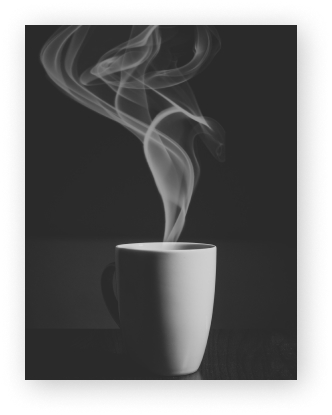
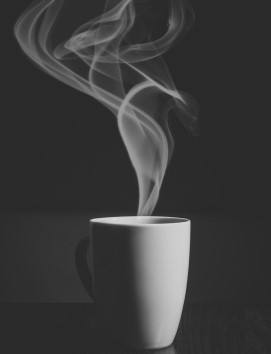
about-coffee-item-page layaut change

diff --git a/src/components/about/about-coffee-item-page.js b/src/components/about/about-coffee-item-page.js
@@ -1,48 +1,28 @@
-import {Container, Row, Col} from 'react-bootstrap';
-import './about.css'
-import imgAbout from './coffee.jpg'
+import './about-coffee.css'
 import LineBeans from '../line-beans/line-beans';
 
-// this section layout with bootstrap Grid system for just for my studying
-//it will be better using flex or persents
-
 const AboutCoffeeItemPage = ({data}) => {
-    
-    const {country,description, price} = data
-    
-   
-return (
-    <section className="about">
-        <Container >
-            <Row>
-                <Col xl={{span:5, offset:1}} lg={{span:5, offset:1}} md={{span:6, offset:0}} sm={{span:4, offset:0}} xs={{span:8, offset:2}}>
-                  <div className="about_img coffee">
-                      <img src={imgAbout} alt="coffee-фото"  />
-                  </div>
-                     
-                   
-                </Col>
-                <Col xl={{span:5, offset: 0}} lg={{span:5, offset:1}} md={{span:6, offset:0}}  sm={{span:7, offset:1}} xs={{span:10, offset:1}}>
-                    <div className="about_text-wrap coffee">
-                         <h1>About it</h1>
-                        <LineBeans />
-                       
-                        <div className="about_text coffee">
-                            <div><b>Country: </b>{country}</div>
-                            <p></p>
-                            <b>Description: </b> <span>{description}</span>
-                            <p></p>
-                            <div><b>Price: </b><b className="about_price">{price}$</b></div>
-                        </div>
-                       
+    const {country,description, price, img} = data
+    return (
+        <section className="about-coffee">
+            <div className="container" >
+                <div className="about-coffee_img">
+                    <img src={img} alt="coffee-фото"  />
+                </div>
+                <div className="about-coffee_text-wrap">
+                    <h1>About it</h1>
+                    <LineBeans />
+                    <div className="about-coffee_text">
+                        <div><b>Country: </b>{country}</div>
+                        <p></p>
+                        <b>Description: </b> <span>{description}</span>
+                        <p></p>
+                        <div><b>Price: </b><b className="about_price">{price}$</b></div>
                     </div>
-                </Col>
-            </Row>
-
-            
-        </Container>
-    </section>
-)
+                </div>
+            </div>
+        </section>
+    )
 }
 
 export default AboutCoffeeItemPage;

diff --git a/src/components/about/about-coffee.css b/src/components/about/about-coffee.css
@@ -1,0 +1,94 @@
+
+.about-coffee {
+    padding-top: 70px;
+    min-height: 55vh;
+   
+}
+
+.about-coffee_img {
+    /* display: inline-block; */
+    margin-left: 130px;
+    width: 392px;
+    float:left;
+    margin: 0 55px 30px 130px;
+    background-color: black;
+}
+
+.about-coffee_img img {
+    width: 100%;
+    object-fit: fill;
+   
+}
+
+.about-coffee_text-wrap {
+    display: block;
+    padding: 10px 10px 0 0px;
+    text-align: left; 
+}
+
+.about-coffee_text-wrap h1 {
+    font-size: 24px;
+    padding-bottom: 12px;
+    font-weight: 700;
+    text-align: center;
+}
+
+.about-coffee_text {
+    padding-top: 25px;
+    padding-left: 130px;
+    font-size: 14px;
+    line-height: 22px;
+}
+
+.about-coffee_price {
+    font-size: 24px;
+}
+
+.about-coffee_line {
+    width: 240px;
+    height: 2px;
+    background-color: black;
+    margin: 60px auto 0px auto;
+}
+
+
+@media (max-width: 991px) {
+    .about-coffee_img {
+        width: 300px;
+        float:left;
+        margin: 0 25px 10px 0px;
+        /* background-color: black; */
+    }
+
+    .about-coffee_text {
+        padding-top: 10px;
+        padding-left: 0px;
+    }
+}
+    
+@media (max-width: 767px) {
+
+    .about-coffee {
+        padding-top: 20px;
+    }
+
+    .about-coffee_text {
+        padding-left: 25px;
+        padding-top: 10px;
+        font-size: 11px;
+        line-height: 18px;
+    }
+
+    
+}
+@media (max-width: 575px) {
+    .about-coffee_img img {
+        display: none;
+    }
+
+    .about-coffee_line {
+        width: 120px;
+        margin: 20px auto 0px auto;
+    }
+    
+}

diff --git a/src/components/header/header.css b/src/components/header/header.css
@@ -1,14 +1,17 @@
 .header {
     min-height: 260px;
     background: url('./coffee-shop-1209863_1920.jpg') center center/cover no-repeat;
+    padding-top: 30px;
 }
 
 .headerForYouPleasure{
+    padding-top: 30px;
     /* min-height: 260px; */
     background: url('./forYouPleasure.jpg') center center/cover no-repeat;
 }
 
 .headerCoffeeHouse{
+    padding-top: 30px;
     min-height: 640px;
     background: url('./header-coffee-house.jpg') center center/cover no-repeat;
 }
@@ -70,6 +73,10 @@
 }
 
 @media (max-width: 767px) {
+    header {
+        padding-top: 10px;
+    }
+
     .header_title { 
         padding: 30px 0 30px 0 ;
         font-weight: 700;
@@ -77,6 +84,7 @@
     }
     
     .header_links-wrap {
+        /* padding-top: 10px; */
         display: flex; 
         justify-content: space-around; 
     }

diff --git a/src/components/about/about.css b/src/components/about/about.css
@@ -9,7 +9,10 @@
    
 }
 .about_img.coffee {
+    padding-left: 0px;
     width: 392px;
+    /* height: 100%; */
+    background-color: black;
    
 }
 
@@ -18,7 +21,8 @@
 }
 
 .about_img.coffee img {
-    width: auto;
+    object-fit: fill;
+   
 }
 
 .about_text-wrap {
@@ -76,7 +80,7 @@
 
 @media (max-width: 991px) {
     .about_img.coffee {
-       margin-top: 40px;
+       /* margin-top: 40px; */
        
     }
     
@@ -86,6 +90,11 @@
 }
 
 @media (max-width: 767px) {
+
+    .about {
+        padding-top: 20px;
+    }
+
     .about_text {
         padding-top: 10px;
         font-size: 11px;

diff --git a/src/components/coffee-item-page/coffee-item-page.js b/src/components/coffee-item-page/coffee-item-page.js
@@ -19,21 +19,13 @@ class CoffeeItemPage extends Component {
 		if (itemData){
 			localStorage.setItem('itemData', JSON.stringify(itemData))
 		} else localStorage.setItem('itemData', JSON.stringify(this.state.itemData))
-		
 	}
 	
 	componentDidMount () {
 		this.sendToLocalStorage()
-
-
 	}
-	
 
 	render() {
-
-		console.log("props", this.props)
-		console.log("state",this.state)
-
 		return (
 			<Fragment >
 				<Header/>

diff --git a/src/components/links/links.css b/src/components/links/links.css
@@ -8,8 +8,8 @@
 
 .links_light-wrap, .links_dark-wrap   {
     position: relative;
-    width: 355px;
-    height: 70px;
+    /* width: 355px; */
+    /* height: 70px; */
     display: flex;
     align-items: end;
 }
@@ -35,9 +35,9 @@
 }
 
 @media (max-width: 991px) {
-    .links_light-wrap {
-        height: 50px;
-    }
+    
+
+   
 }
 
 @media (max-width: 380px) {

diff --git a/src/components/links/links.js b/src/components/links/links.js
@@ -6,7 +6,7 @@ const Links= () => {
 
     const changeActive = (isActive)=>{
         if (isActive) {
-            return {fontSize: '14px', fontWeight: 'bold', textDecoration: 'underline'}
+            return {fontSize: '12px', fontWeight: 'bold', textDecoration: 'underline'}
             } 
     }
 

diff --git a/src/components/footer/footer.css b/src/components/footer/footer.css
@@ -1,5 +1,6 @@
 footer {
     min-height: 150px;
+    padding-top: 40px;
 }
 
 .footer_links-wrap {
